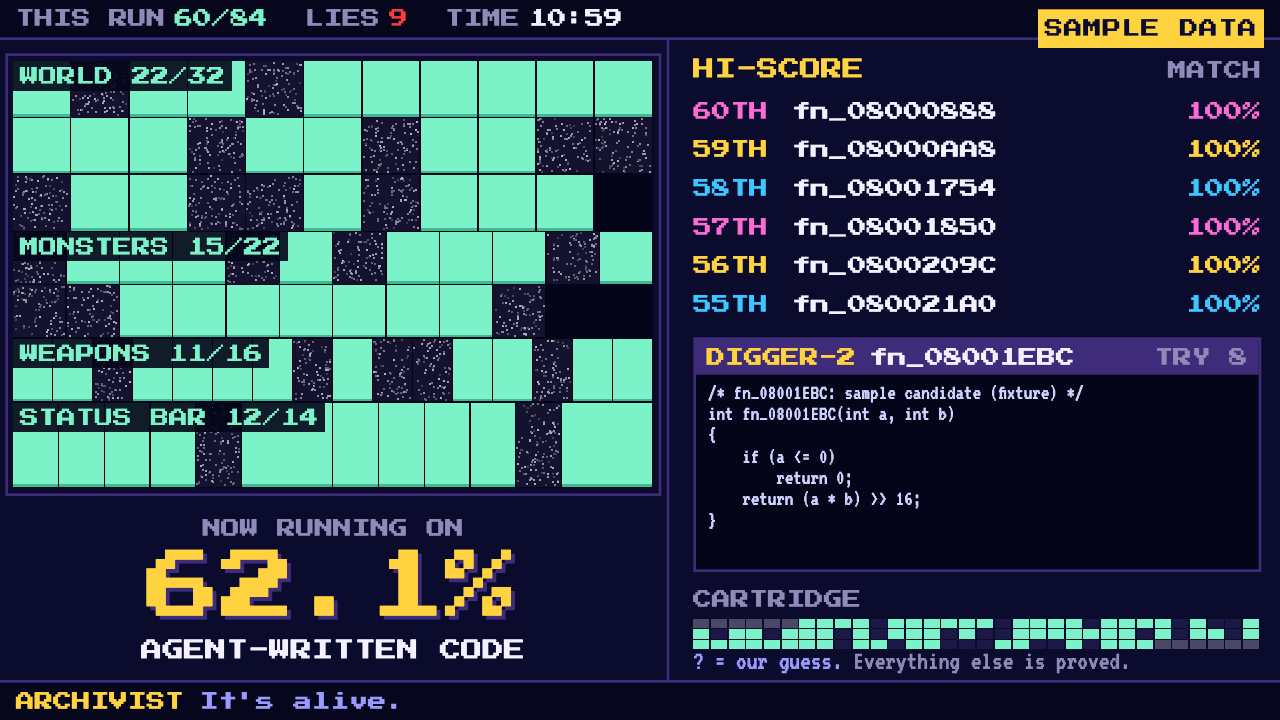
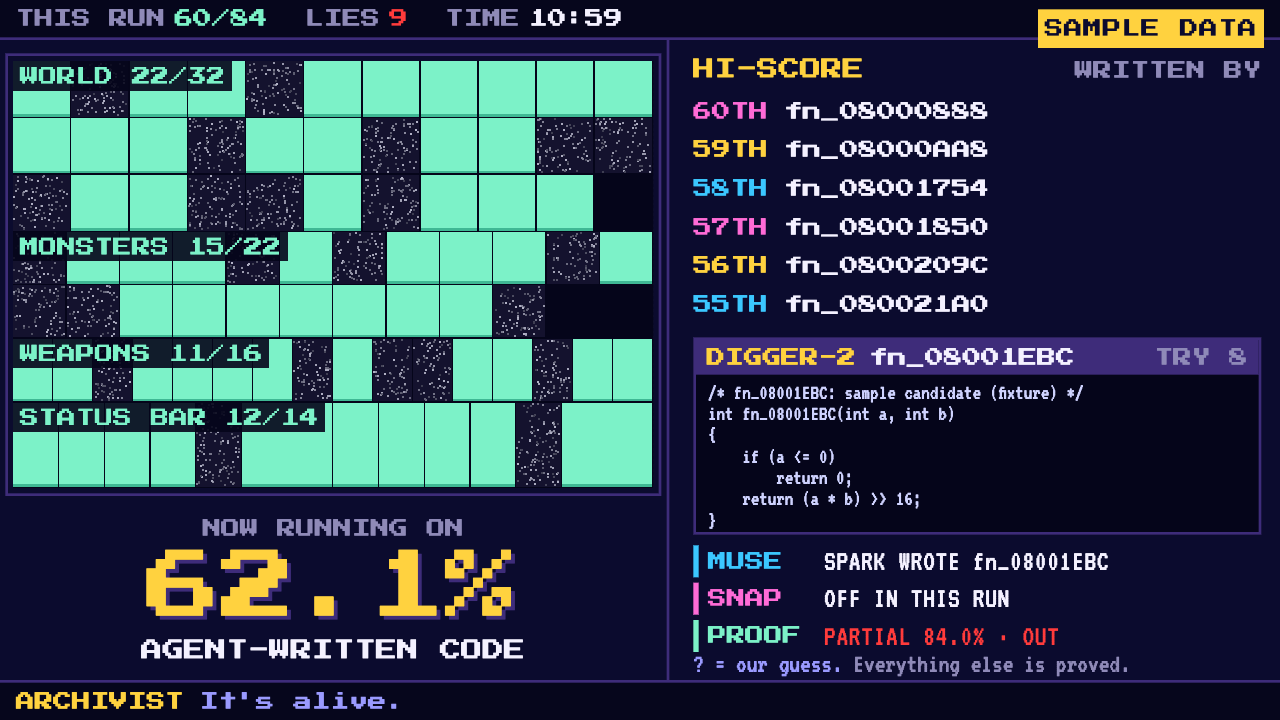
stage: Split shows Muse, Snap and the compiler on every match
The hi-score table says which Muse model wrote each match (fn.matched.models:
Spark, Wonder, or both after a Snap escalation). Under the code window the
proof chain reads the newest real events: MUSE (model that wrote the attempt),
SNAP (fake-gate odds per review, or the steering call: triage, escalate,
director pick, held long enough to read), PROOF (the referee's verdict).
Gemini reviews show as the second lab.

diff --git a/stage/src/scenes/split.ts b/stage/src/scenes/split.ts
@@ -1,20 +1,49 @@
-// Scene 1: Split. Left 1000 px is the game (OBS puts mGBA under it), right is the rebuild:
-// hi-score table and the code window. One hero number: NOW RUNNING ON NN% AGENT-WRITTEN CODE.
+// Scene 1: Split. Left 1000 px is the game (OBS puts mGBA under it; otherwise the cartridge map), right is
+// the rebuild: the hi-score table (who wrote each match), the code window, and the proof chain:
+// Muse writes it. Snap judges it. The compiler proves it.
 import type { Ctx, Scene } from '../types.ts';
 import { h, esc, diffIns } from '../types.ts';
-import type { Effect, FalseClaim, State } from '../state.ts';
+import type { Effect, FalseClaim, SnapDecision, State } from '../state.ts';
+import { modelName } from '../state.ts';
 import type { Region } from '../data.ts';
 import { coin, reject } from '../audio.ts';
-import { hudHtml, renderHud, tickerHtml, renderTicker, renderRows, drawMeter, setText, gameName, gameTotal } from './common.ts';
+import { hudHtml, renderHud, tickerHtml, renderTicker, renderRows, setText, gameName, gameTotal, writer } from './common.ts';
 import { Mosaic } from './mosaic.ts';
 import type { RowsMemo } from './common.ts';
 
 const FRAME = { x: 20, y: 92, scale: 4 }; // 240x160 GBA at 4x = 960x640
 const ROW0 = { x: 1040, y: 196 }; // the top hi-score row, where beams start
 const STATUS_TEXT: Record<string, string> = { MATCH: 'MATCH', PARTIAL: 'PARTIAL', LINT_FAIL: 'LINT FAIL', NO_COMPILE: 'NO COMPILE' };
+const HOLD_MS = 3200; // a steering decision (triage, escalate, director) stays up this long before fake-gate reviews replace it
+
+const pc = (x: number | null | undefined) => (x == null ? '--' : `${(x * 100).toFixed(1)}%`);
+const short = (m: string | null | undefined) => modelName(m).replace(/^MUSE /, '');
 
 export function regionRect(r: Region) {
   return { x: FRAME.x + r.x * FRAME.scale, y: FRAME.y + r.y * FRAME.scale, w: r.w * FRAME.scale, h: r.h * FRAME.scale };
+}
+
+/** One line of what SubQ Snap (or Gemini, the second lab) just decided, in plain words. */
+export function snapLine(d: SnapDecision, s: State): { tag: string; text: string; cls: string } {
+  const p = d.p ?? {};
+  const conf = typeof p.confidence === 'number' ? ` ${Math.round(p.confidence * 100)}%` : '';
+  switch (d.op) {
+    case 'review': {
+      const lab = String(p.reviewer ?? 'snap');
+      return { tag: lab === 'gemini' ? 'GEMINI' : 'SNAP', text: `${pc(p.fakematch_p)} CHANCE OF FAKE`, cls: lab === 'gemini' ? 'gem' : 'snap' };
+    }
+    case 'decide_next': {
+      const a = String(p.action ?? 'keep');
+      const text = a === 'escalate' ? `ESCALATE TO ${short(s.escalationModel ?? 'muse-wonder-1.0')}${conf}`
+        : a === 'abandon' ? `ABANDON IT${conf}` : `KEEP DIGGING${conf}`;
+      return { tag: 'SNAP', text, cls: 'snap hold' };
+    }
+    case 'triage': return { tag: 'SNAP', text: `READ ${p.functions ?? '?'} FUNCTIONS AT ONCE`, cls: 'snap hold' };
+    case 'director': return { tag: 'SNAP', text: `PLAY PICKED ${d.fn ?? (p.fns?.[0] ?? '?')}`, cls: 'snap hold' };
+    case 'eyes': return { tag: 'SNAP', text: 'CHECKED THE GAME FRAMES', cls: 'snap hold' };
+    case 'route': return { tag: 'SNAP', text: 'ROUTED A PLAIN-WORDS ASK', cls: 'snap hold' };
+    default: return { tag: 'SNAP', text: d.op.toUpperCase(), cls: 'snap' };
+  }
 }
 
 export class SplitScene implements Scene {
@@ -25,7 +54,6 @@ export class SplitScene implements Scene {
   private stampEl: HTMLElement;
   private pipEl: HTMLElement;
   private badgeEl: HTMLElement;
-  private meter: HTMLCanvasElement;
   private memo: RowsMemo = { key: '', top: '' };
   private typing: { text: string; shown: number; t0: number; cps: number } | null = null;
   private codeKey = '';
@@ -35,6 +63,9 @@ export class SplitScene implements Scene {
   private total = 0;
   private game = 'DOOM';
   private ph: HTMLElement;
+  private snapShown: SnapDecision | null = null;
+  private snapAt = 0;
+  private proofKey = '';
 
   constructor() {
     this.el.innerHTML = `
@@ -43,14 +74,18 @@ export class SplitScene implements Scene {
       <div class="badge orig"><div class="l1">NOW RUNNING ON</div><div class="l2" data-k="badge">ORIGINAL CODE</div></div>
       <div class="divider"></div>
       <div class="panel">
-        <h2><span>HI-SCORE</span><small>MATCH</small></h2>
+        <h2><span>HI-SCORE</span><small>WRITTEN BY</small></h2>
         <div class="rows"></div>
         <div class="codewin">
           <div class="bar"><span class="who" data-k="who">WAITING</span><span data-k="fn"></span><span class="try" data-k="try"></span></div>
           <pre></pre>
           <div class="stamp"></div>
         </div>
-        <div class="meter"><div class="lbl">CARTRIDGE</div><canvas width="852" height="48"></canvas></div>
+        <div class="chain">
+          <div class="pl muse"><b>MUSE</b><span data-k="pMuse">WAITING FOR A DIGGER</span></div>
+          <div class="pl snap"><b data-k="pSnapTag">SNAP</b><span data-k="pSnap">WAITING FOR A DECISION</span></div>
+          <div class="pl proof"><b>PROOF</b><span data-k="pProof">WAITING FOR THE COMPILER</span></div>
+        </div>
         <div class="keyline"><em>? = our guess.</em> Everything else is proved.</div>
         <div class="pip"></div>
       </div>
@@ -60,7 +95,6 @@ export class SplitScene implements Scene {
     this.stampEl = this.el.querySelector('.stamp')!;
     this.pipEl = this.el.querySelector('.pip')!;
     this.badgeEl = this.el.querySelector('.badge')!;
-    this.meter = this.el.querySelector('canvas')!;
     this.ph = this.el.querySelector('.ph')!;
     this.el.querySelector('.game-frame')!.prepend(this.mosaic.cv);
   }
@@ -68,12 +102,12 @@ export class SplitScene implements Scene {
   render(ctx: Ctx) {
     const s = ctx.state;
     renderHud(this.el, s);
-    renderRows(this.rowsEl, ctx, 6, this.memo, null);
+    renderRows(this.rowsEl, ctx, 6, this.memo, null, writer);
     this.renderCode(ctx);
+    this.renderProof(ctx);
     this.total = gameTotal(ctx);
     this.game = gameName(s);
     this.renderBadge(s);
-    drawMeter(this.meter, ctx);
     renderTicker(this.el, s, ctx.reduced);
     // the game window: live capture in OBS; otherwise the cartridge map (a bench run is not Doom)
     const ph = s.bench ? 'BENCH RUN<br>NOT DOOM' : '';
@@ -82,7 +116,7 @@ export class SplitScene implements Scene {
     if (!s.bench && !ctx.obs) this.mosaic.draw(ctx, performance.now());
   }
 
-  /** the map animates its static, so Split keeps rendering */
+  /** the map animates its static and the proof chain holds decisions on a timer, so Split keeps rendering */
   animating(ctx: Ctx) { return !ctx.obs && !ctx.reduced; }
 
   effect(ctx: Ctx, e: Effect) {
@@ -106,6 +140,8 @@ export class SplitScene implements Scene {
       this.rowsEl.innerHTML = '';
       this.codeKey = '';
       this.badgeKey = '';
+      this.proofKey = '';
+      this.snapShown = null;
       this.typing = null;
       this.pre.textContent = '';
       this.stampEl.className = 'stamp';
@@ -115,6 +151,46 @@ export class SplitScene implements Scene {
 
   /** the code window is still typing (main loop keeps rendering while true) */
   busy() { return !!this.typing && this.typing.shown < this.typing.text.length; }
+
+  /** Muse writes it. Snap judges it. The compiler proves it. Each line from the newest real event. */
+  private renderProof(ctx: Ctx) {
+    const s = ctx.state;
+    const a = s.lastAttempt;
+    const muse = a ? `${short(a.model ?? s.model)} WROTE ${a.fn}` : 'WAITING FOR A DIGGER';
+    // steering decisions stay up for a moment; the per-match fake gate replaces them after that
+    const latest = s.snap[s.snap.length - 1] ?? null;
+    const now = performance.now();
+    if (latest && latest !== this.snapShown) {
+      const holding = this.snapShown && this.snapShown.op !== 'review' && now - this.snapAt < HOLD_MS;
+      if (!holding || latest.op !== 'review') { this.snapShown = latest; this.snapAt = now; }
+    }
+    const sn = this.snapShown ? snapLine(this.snapShown, s) : { tag: 'SNAP', text: s.snapOn ? 'WAITING FOR A DECISION' : 'OFF IN THIS RUN', cls: 'snap' };
+    const v = s.lastVerdict;
+    const proof = !v ? 'WAITING FOR THE COMPILER'
+      : v.claim_was_true === false ? `LIE CAUGHT · ${v.match_pct.toFixed(1)}%`
+      : v.status === 'MATCH' ? '100% BYTE-IDENTICAL'
+      : `${STATUS_TEXT[v.status] ?? v.status}${v.status === 'PARTIAL' ? ` ${v.match_pct.toFixed(1)}%` : ''} · OUT`;
+    const key = `${muse}|${sn.tag}|${sn.text}|${proof}`;
+    if (key === this.proofKey) return;
+    const old = this.proofKey.split('|');
+    this.proofKey = key;
+    setText(this.el, 'pMuse', muse);
+    setText(this.el, 'pSnapTag', sn.tag);
+    setText(this.el, 'pSnap', sn.text);
+    setText(this.el, 'pProof', proof);
+    const line = (k: string) => this.el.querySelector(`[data-k="${k}"]`)!.parentElement as HTMLElement;
+    line('pSnap').className = `pl ${sn.cls}`;
+    line('pProof').className = `pl proof${v && (v.status !== 'MATCH' || v.claim_was_true === false) ? ' bad' : ''}`;
+    // a line that changed blinks once
+    const changed = [old[0] !== muse, old[2] !== sn.text, old[3] !== proof];
+    if (!ctx.reduced) (['pMuse', 'pSnap', 'pProof'] as const).forEach((k, i) => {
+      if (!changed[i]) return;
+      const el = line(k);
+      el.classList.remove('tick');
+      void el.offsetWidth;
+      el.classList.add('tick');
+    });
+  }
 
   private renderCode(ctx: Ctx) {
     const a = ctx.state.lastAttempt;
@@ -134,7 +210,7 @@ export class SplitScene implements Scene {
     const target = Math.min(t.text.length, Math.floor(((performance.now() - t.t0) / 1000) * t.cps));
     if (target !== t.shown || !this.pre.childNodes.length) {
       t.shown = Math.max(t.shown, target);
-      const lines = t.text.slice(0, t.shown).split('\n').slice(-9).join('\n');
+      const lines = t.text.slice(0, t.shown).split('\n').slice(-7).join('\n');
       this.pre.innerHTML = `<span>${esc(lines)}${t.shown < t.text.length ? '<i class="caret"></i>' : ''}</span>`;
     }
   }

diff --git a/stage/src/scenes/common.ts b/stage/src/scenes/common.ts
@@ -1,8 +1,8 @@
 // Pieces shared by several scenes: HUD, narrator ticker, hi-score rows, cartridge meter.
 import type { Ctx } from '../types.ts';
 import { esc } from '../types.ts';
-import type { State } from '../state.ts';
-import { elapsedS, fmtClock, pctOf } from '../state.ts';
+import type { Matched, State } from '../state.ts';
+import { elapsedS, fmtClock, pctOf, modelName } from '../state.ts';
 import { displayName } from '../data.ts';
 
 export const ORD = (n: number) => `${n}${['TH', 'ST', 'ND', 'RD'][n % 100 > 10 && n % 100 < 14 ? 0 : n % 10 < 4 ? n % 10 : 0]}`;
@@ -54,7 +54,30 @@ export function renderTicker(root: HTMLElement, s: State, reduced: boolean) {
 
 // ---------- hi-score rows ----------
 export type RowsMemo = { key: string; top: string };
-export function renderRows(el: HTMLElement, ctx: Ctx, n: number, memo: RowsMemo, liar: string | null) {
+/** Right-hand column of a row: "100%" on Hi-score, the Muse model that wrote it on Split. */
+export type RowRight = (m: Matched) => { html: string; cls?: string };
+const PCT: RowRight = () => ({ html: '100%' });
+/** Which Muse model wrote a match, from fn.matched.models (attempts per model). */
+export const writer: RowRight = (m) => {
+  const ms = Object.keys(m.models ?? {});
+  const short = (x: string) => modelName(x).replace(/^MUSE /, '');
+  if (!ms.length) return { html: '' };
+  if (ms.length === 1) return { html: short(ms[0]), cls: /wonder/.test(ms[0]) ? 'w-wonder' : 'w-spark' };
+  return { html: ms.map(short).join('+'), cls: 'w-both' };
+};
+
+/** Long guessed names shrink (never below 34 px) instead of being cut off. */
+export function fitNames(root: HTMLElement) {
+  root.querySelectorAll<HTMLElement>('.nm.guess').forEach((el) => {
+    if (el.dataset.fit === el.textContent) return;
+    el.dataset.fit = el.textContent ?? '';
+    el.style.fontSize = '';
+    let px = parseFloat(getComputedStyle(el).fontSize);
+    while (el.scrollWidth > el.clientWidth + 1 && px > 34) { px -= 2; el.style.fontSize = `${px}px`; }
+  });
+}
+
+export function renderRows(el: HTMLElement, ctx: Ctx, n: number, memo: RowsMemo, liar: string | null, right: RowRight = PCT) {
   const s = ctx.state;
   const newest = s.matched.slice(-n).reverse();
   const ids = newest.map((m) => m.fn);
@@ -72,9 +95,11 @@ export function renderRows(el: HTMLElement, ctx: Ctx, n: number, memo: RowsMemo,
     const rank = total - i;
     const nm = displayName(ctx.side, m.fn);
     const isNew = i === 0 && prevTop !== m.fn && !ctx.reduced;
-    html += `<div class="row c${(rank - 1) % 3}${isNew ? ' new' : ''}"><span class="rk">${ORD(rank)}</span><span class="nm${nm.guess ? ' guess' : ''}">${esc(nm.text)}</span><span class="pc">100%</span></div>`;
+    const r = right(m);
+    html += `<div class="row c${(rank - 1) % 3}${isNew ? ' new' : ''}"><span class="rk">${ORD(rank)}</span><span class="nm${nm.guess ? ' guess' : ''}">${esc(nm.text)}</span><span class="pc ${r.cls ?? ''}">${r.html}</span></div>`;
   }
   el.innerHTML = html;
+  fitNames(el);
 }
 
 // ---------- cartridge meter: one cell per manifest function ----------

diff --git a/stage/src/style.css b/stage/src/style.css
@@ -180,10 +180,24 @@ body.obs .split .game-frame .ph { display: none; }
 .pip .ko { position: absolute; left: 0; right: 0; bottom: 16px; text-align: center; font: italic 48px/1 'Russo One', sans-serif; color: var(--ko); -webkit-text-stroke: 2px #000; }
 .diff { color: var(--alarm); }
 
-.meter { position: absolute; left: 36px; right: 28px; top: 826px; }
-.meter .lbl { font-size: 28px; color: var(--dim); }
-.meter canvas { display: block; margin-top: 14px; width: 852px; height: 48px; }
-.keyline { position: absolute; left: 36px; right: 28px; top: 912px; font: 40px/1 var(--code); color: var(--dim); white-space: nowrap; }
+/* proof chain: Muse writes it, Snap judges it, the compiler proves it */
+.split .codewin { height: 296px; }
+.split .pip { height: 296px; }
+.chain { position: absolute; left: 36px; right: 28px; top: 758px; display: grid; gap: 8px; }
+.pl { display: grid; grid-template-columns: 196px minmax(0,1fr); align-items: center; height: 48px; white-space: nowrap; overflow: hidden; }
+.pl b { font: 28px/1 var(--hud); font-weight: normal; padding: 10px 0 10px 14px; border-left: 8px solid currentColor; }
+.pl span { font: 44px/1 var(--code); color: var(--ink); letter-spacing: 1px; overflow: hidden; }
+.pl.muse b { color: var(--cyan); }
+.pl.snap b { color: var(--magenta); }
+.pl.gem b { color: var(--yellow); }
+.pl.proof b { color: var(--mint); } .pl.proof span { color: var(--mint); }
+.pl.proof.bad span { color: var(--alarm); }
+.pl.tick span { animation: plpulse 0.5s steps(2); }
+@keyframes plpulse { 50% { color: #fff; background: rgba(255,255,255,0.12); } }
+.row .pc.w-spark { color: var(--cyan); } .row .pc.w-wonder { color: var(--magenta); } .row .pc.w-both { color: var(--yellow); }
+.split .row { grid-template-columns: 136px minmax(0,1fr) 230px; }
+.split .row .pc { font: 40px/1 var(--code); letter-spacing: 1px; }
+.keyline { position: absolute; left: 36px; right: 28px; top: 916px; font: 40px/1 var(--code); color: var(--dim); white-space: nowrap; }
 .keyline em { font-style: normal; color: var(--guess); }
 
 /* ---------- VERSUS ---------- */
